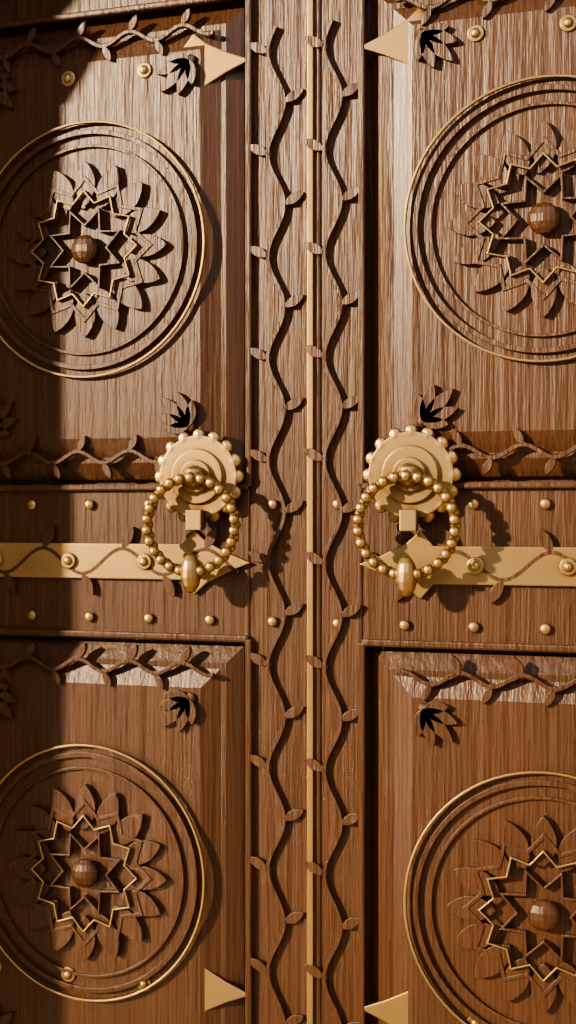
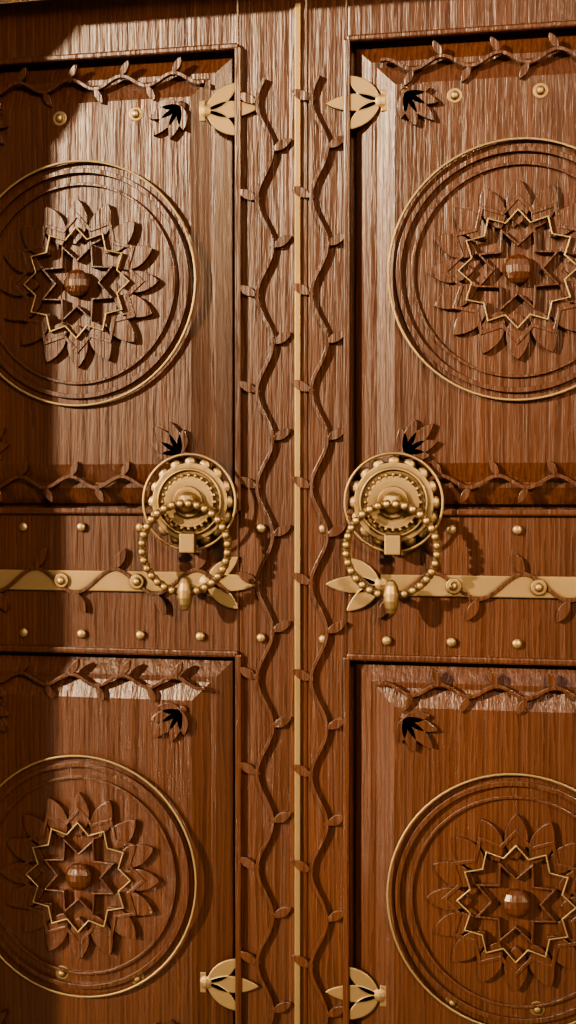
Riad Royal v3.2 : réglages lumière et cèdre, essais brouillon
Claude-Session: https://claude.ai/code/session_017xmhvdhq3kgFCeEFkWAT7F

diff --git a/prestige-studio/blender/riad_royal.py b/prestige-studio/blender/riad_royal.py
@@ -214,7 +214,7 @@ def mat_cedre(nom="cedre", sombre=False, ton=1.0):
     var = n.new("ShaderNodeMath"); var.operation = "MULTIPLY"; var.inputs[1].default_value = 0.5
     l.new(add_p.outputs["Value"], var.inputs[0])
     cr = n.new("ShaderNodeValToRGB")
-    f = 0.55 if sombre else 1.0
+    f = 0.55 if sombre else 0.86
     cr.color_ramp.elements[0].color = (0.020 * f * ton, 0.0070 * f * ton, 0.0026 * f, 1)
     cr.color_ramp.elements[1].color = (0.205 * f * ton, 0.090 * f * ton, 0.034 * f, 1)
     em_ = cr.color_ramp.elements.new(0.52); em_.color = (0.085 * f * ton, 0.034 * f * ton, 0.011 * f, 1)
@@ -908,7 +908,7 @@ def lumieres(ouverture):
     aire("ciel_doux", (3.0, -9.0, 9.0), (0, 0, 3.4), 9.0, 190, (0.80, 0.86, 1.0))
     aire("remplissage", (6.5, -9.0, 2.0), (0, 0, 2.6), 6.0, 80, (1.0, 0.82, 0.62))
     # projecteur doux sur les portes : rasant, chaud, il fait vivre les reliefs et laisse la façade tomber dans l'ombre
-    sp = bpy.data.lights.new("projecteur_portes", "SPOT"); sp.energy = 2600; sp.color = (1.0, 0.70, 0.40)
+    sp = bpy.data.lights.new("projecteur_portes", "SPOT"); sp.energy = 1500; sp.color = (1.0, 0.70, 0.40)
     sp.spot_size = math.radians(30); sp.spot_blend = 0.85; sp.shadow_soft_size = 0.5
     spo = bpy.data.objects.new("projecteur_portes", sp); bpy.context.collection.objects.link(spo)
     spo.location = (3.4, -6.5, 4.6); spo.rotation_euler = (Vector((0, 0.4, 1.7)) - Vector(spo.location)).to_track_quat("-Z", "Y").to_euler()
